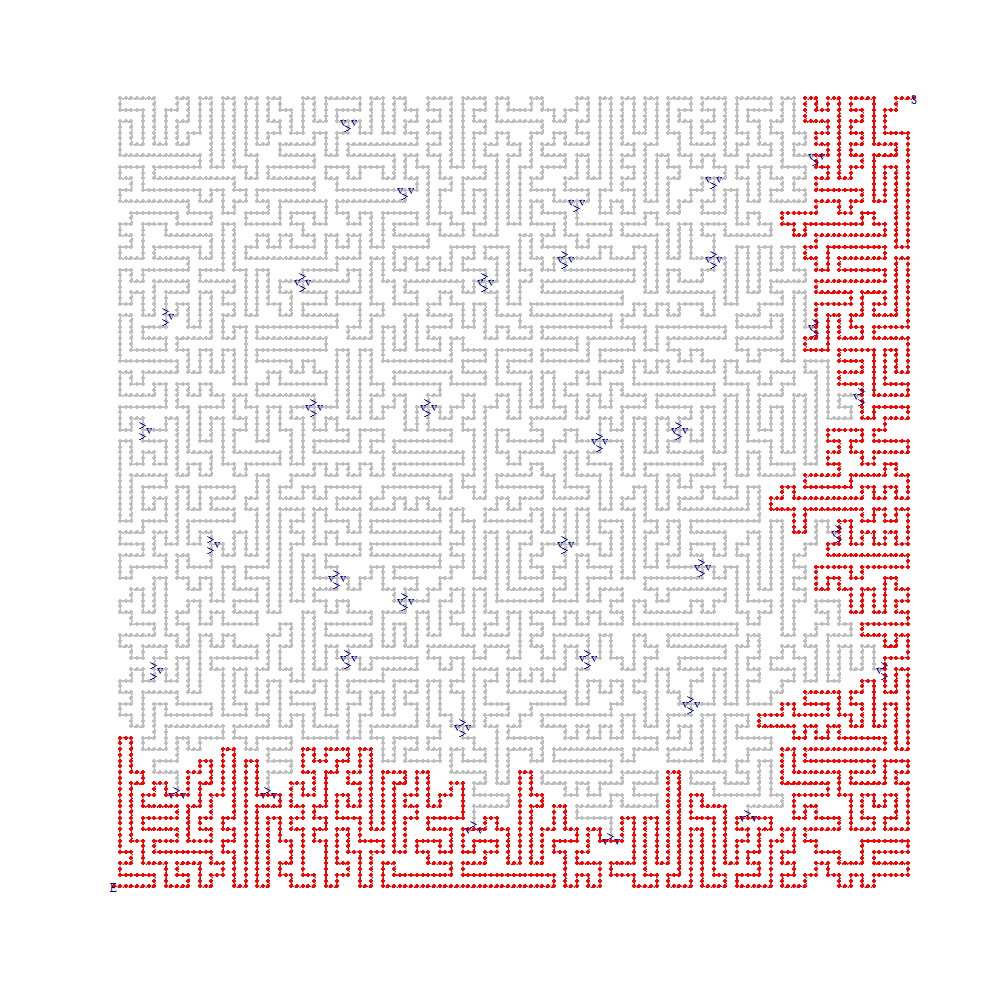
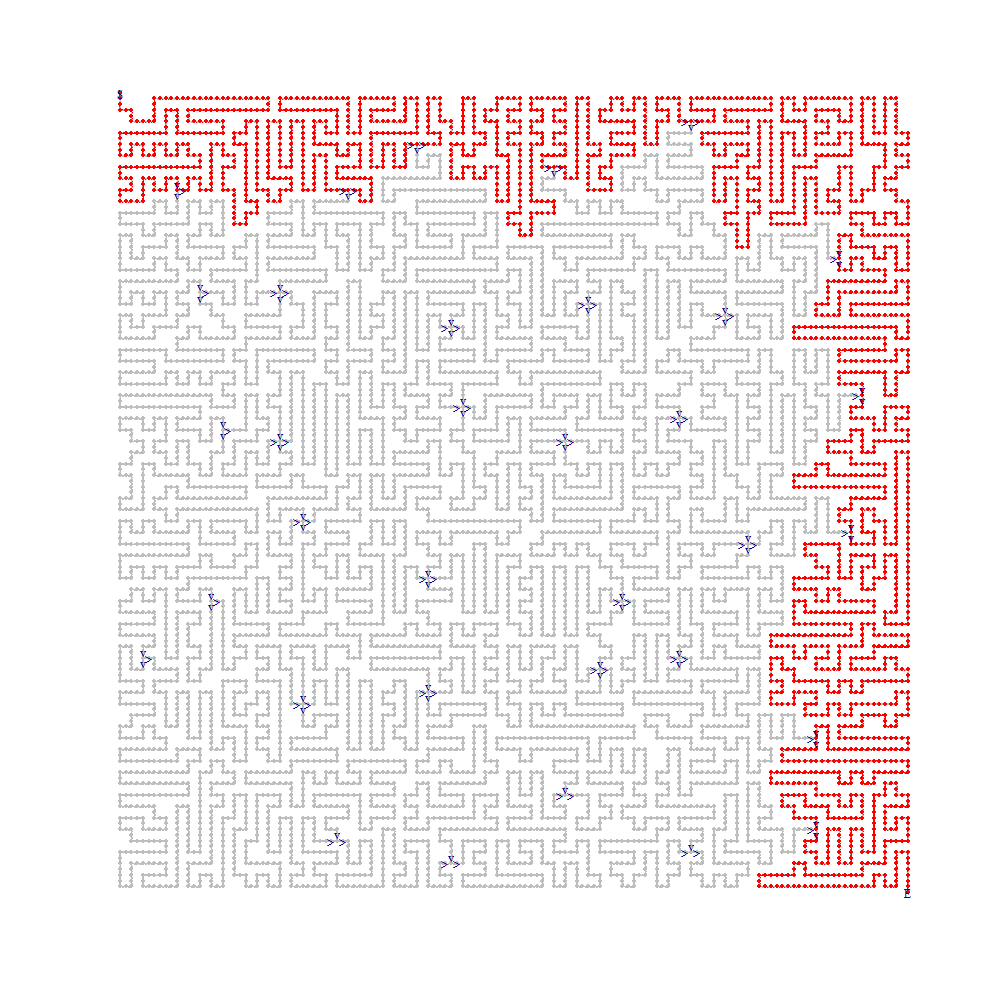
day23: return the actual longest path so we can draw it

Changed region(s): [[0.093, 0.093, 0.93, 0.899], [0.124, 0.589, 0.155, 0.62]]

diff --git a/2023/23/23-04-bruteforce-with-rcpp.cpp b/2023/23/23-04-bruteforce-with-rcpp.cpp
@@ -2,7 +2,7 @@
 using namespace Rcpp;
 
 // [[Rcpp::export]]
-int get_longest_path(
+int get_longest_path_length(
   int node,
   int finish_node,
   Rcpp::LogicalVector& visited,
@@ -23,10 +23,48 @@ int get_longest_path(
       visited2[ni] = true;
       weight = std::max(
         weight,
-        weight_between_me_and_ni + get_longest_path(ni, finish_node, visited2, dist_matrix, n_vertices)
+        weight_between_me_and_ni + get_longest_path_length(ni, finish_node, visited2, dist_matrix, n_vertices)
       );
     }
   }
   
   return weight;
+}
+
+// [[Rcpp::export]]
+Rcpp::IntegerVector get_longest_path(
+  int node,
+  int finish_node,
+  int step_index,
+  const Rcpp::IntegerMatrix& dist_matrix,
+  int n_vertices,
+  Rcpp::IntegerVector& path
+) {
+  /* 
+   * Returns a vector of length n_vertices + 1
+   * First el is the distance of the longest path
+   * the rest is the step on which that vertex is visited (couldn't think of something better)
+  */
+  if (node == finish_node) {
+    return path;
+  }
+  
+  Rcpp::IntegerVector longest_path (n_vertices + 1, 0);
+  
+  int ni;
+  for (ni = 0; ni < n_vertices; ni++) {
+    int weight_between_me_and_ni = dist_matrix(node, ni);
+    if (weight_between_me_and_ni > 0 && path[ni + 1] == 0) {
+      Rcpp::IntegerVector path2 = clone(path);
+      path2[ni + 1] = step_index + 1;
+      path2[0] = path2[0] + weight_between_me_and_ni;
+      
+      // weight is in element [0]
+      Rcpp::IntegerVector candidate = get_longest_path(ni, finish_node, step_index + 1, dist_matrix, n_vertices, path2);
+      if (candidate[0] > longest_path[0]) {
+        longest_path = candidate;
+      }
+    }
+  }
+  return longest_path;
 }
